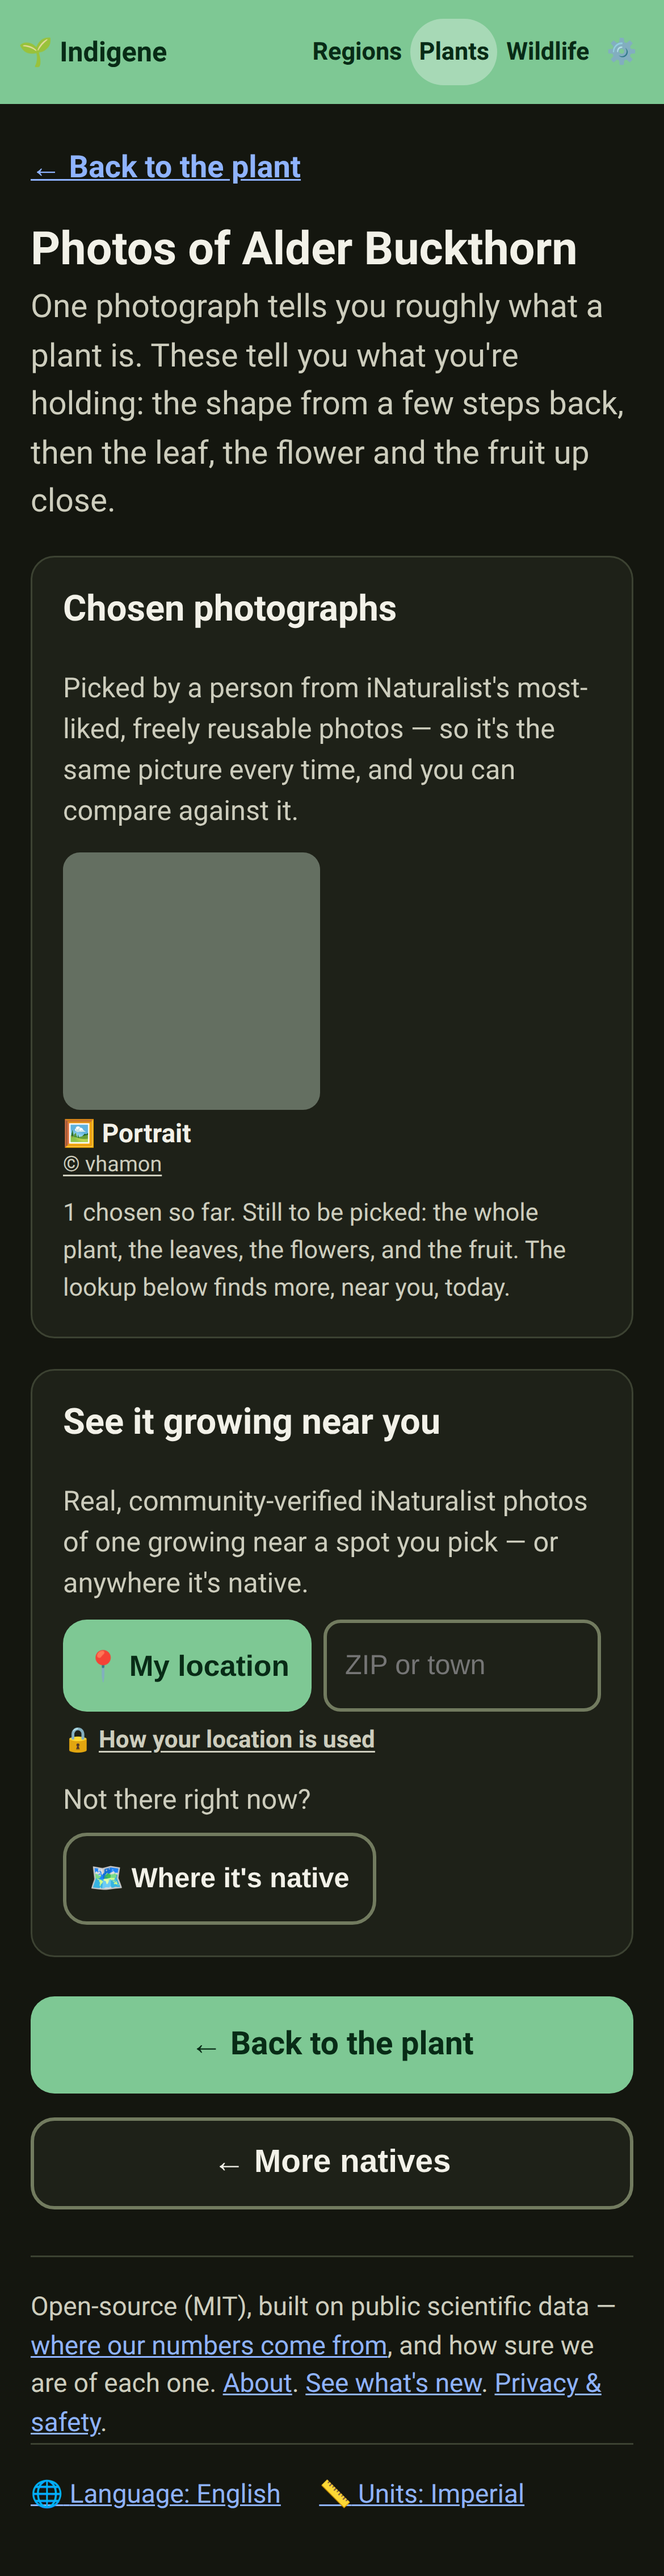
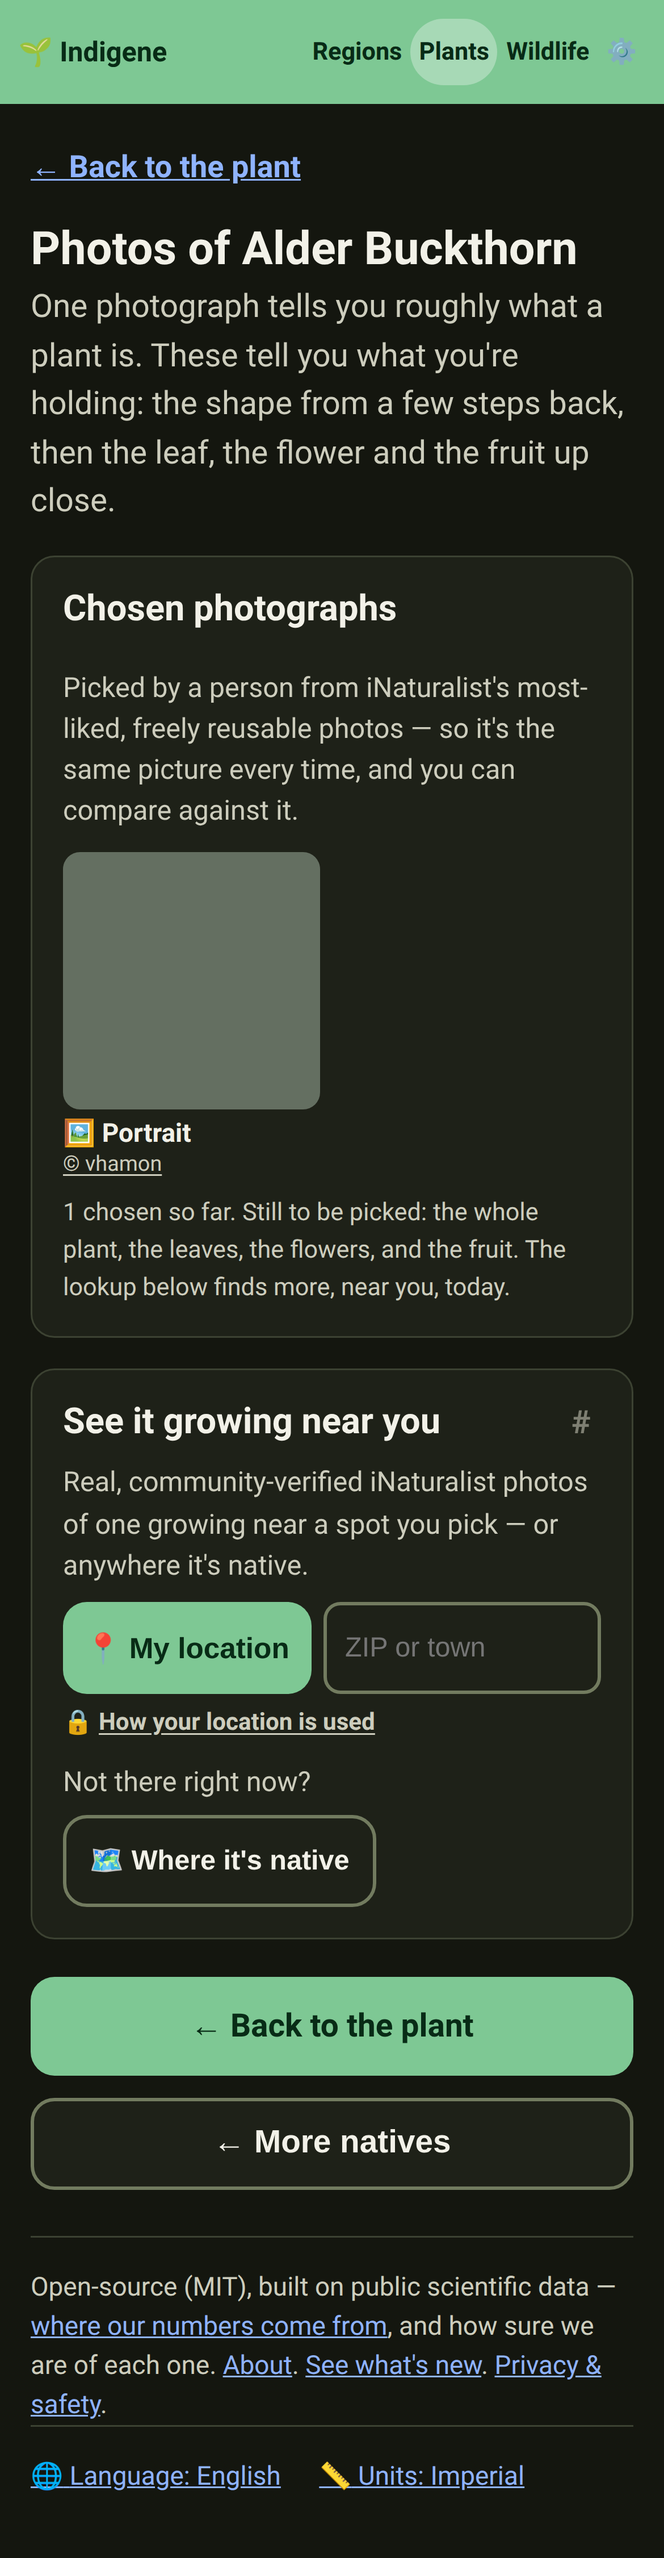
Re-measure the bundle, and reshoot against the rebased base
Rebasing onto the propagation-pages work moved two things this branch
quotes. The bundle is 340 KB gzipped where the docs said 337, so every
mention is updated together — the photo page and the animal thumbnails
add about 3 KB, and the angle picks stay out of the bundle entirely.

The before/after shots were taken against the old main, where the plant
page had neither the anchor marks nor the folded ecosystem card. Both
sides retaken so the only difference the table shows is the one this
branch makes.

Claude-Session: https://claude.ai/code/session_013LsnZQsLYpWbPAc4NkwwKB

diff --git a/docs/ecoregion-plan.md b/docs/ecoregion-plan.md
@@ -145,7 +145,7 @@ Shipped L3 code sets (in the region data files):
 The live query is online-only. Ecoregion-accurate selection with no signal would
 mean bundling a **simplified TopoJSON of the L3 polygons overlapping covered
 regions** and doing point-in-polygon on-device. Even scoped and simplified that
-adds hundreds of KB, against the ~337 KB-gzipped, service-worker-based offline
+adds hundreds of KB, against the ~340 KB-gzipped, service-worker-based offline
 model, and the box fallback already gives correct-enough offline selection. So
 this is **deferred as a deliberate decision**, not pending work — revisit only on
 a concrete need. The shipped product is §1 (labels) + §2 (selection).
@@ -162,7 +162,7 @@ a concrete need. The shipped product is §1 (labels) + §2 (selection).
   split ships. Selection logic is unit-tested (online refine, offline fallback,
   cross-region bleed, the Bend/east-of-Cascades fix, the FL north/south seam).
 - **C — offline polygons:** ⛔ **deferred by decision, not a to-do.** Bundling
-  even simplified L3 polygons adds hundreds of KB, against the ~337 KB-gzipped,
+  even simplified L3 polygons adds hundreds of KB, against the ~340 KB-gzipped,
   service-worker-based offline model. The box fallback already gives correct-
   enough offline selection. Revisit only if a concrete need appears; if so, scope
   it to just the covered regions' polygons, not all 84.

diff --git a/PROJECT_BRIEF.md b/PROJECT_BRIEF.md
@@ -28,7 +28,7 @@ uncertainty; no gamification.
 
 | Question from the brief | Decision | Why |
 |---|---|---|
-| **Framework** | **None.** Vanilla TS + DOM + real web APIs, bundled by Vite. Zero runtime deps. | Per direction ("Do not use React… respect the DOM"). Keeps the bundle ~337 KB gzipped and the code legible. |
+| **Framework** | **None.** Vanilla TS + DOM + real web APIs, bundled by Vite. Zero runtime deps. | Per direction ("Do not use React… respect the DOM"). Keeps the bundle ~340 KB gzipped and the code legible. |
 | **Sky scan tech** | `getUserMedia` + `DeviceOrientationEvent` on a `<canvas>` overlay — **not** WebXR. | WebXR doesn't work in iOS Safari. |
 | **Sun math** | Local NOAA solar-position implementation (no API), integrated against the horizon mask. | Works fully offline; no dependency. |
 | **License** | **MIT.** | A civic tool on public data should maximize reuse; AGPL's network-copyleft would deter the land trusts / extension offices / other apps we want integrating. |

diff --git a/CHANGELOG.md b/CHANGELOG.md
@@ -147,10 +147,11 @@ subtitle on the What's new page.
   committed as its starting state. See `docs/hero-photos.md`.
 - **Internal:** the four close-up angles per plant live in their own JSON,
   imported dynamically, so the bundle every reader downloads doesn't grow by the
-  gallery nobody has opened. The app stays at ~320 KB gzipped.
+  gallery nobody has opened — the page itself adds about 3 KB, taking the app to
+  ~340 KB gzipped.
 - **Internal:** the translated catalog prose is fetched as its own file rather
   than built into the app, so an English reader downloads none of it. The app
-  stays at ~337 KB gzipped; French adds ~122 KB, once, and only in French. If
+  stays at ~340 KB gzipped; French adds ~122 KB, once, and only in French. If
   that file can't be fetched the pages fall back to English exactly as an
   untranslated row always did.
 - **Internal:** `locales/prose.fr.ts` is now `locales/prose.fr/`, one file per

diff --git a/README.md b/README.md
@@ -19,7 +19,7 @@ See **[`PROJECT_BRIEF.md`](PROJECT_BRIEF.md)** for the vision and decisions, and
 
 | Path | What it is |
 |---|---|
-| [`app/`](app/) | The PWA — vanilla TypeScript on the DOM, no framework, zero runtime deps, ~337 KB gzipped. This is the product. Offline-first, installable. |
+| [`app/`](app/) | The PWA — vanilla TypeScript on the DOM, no framework, zero runtime deps, ~340 KB gzipped. This is the product. Offline-first, installable. |
 | [`server/`](server/) | A thin **Hanami 2** JSON API. Its job: fetch site data (soil/elevation/climate) server-side to dodge browser CORS and keep future API keys off the client. The PWA works without it. |
 
 ## Quick start

diff --git a/app/README.md b/app/README.md
@@ -5,7 +5,7 @@ native plants that will actually thrive there — ranked by what they do for the
 local ecosystem, with honest mature-size-over-time drawings.
 
 **No framework.** Built on the DOM and real web APIs, TypeScript compiled by
-Vite. Zero runtime dependencies. ~337 KB gzipped — plus a ~122 KB chunk of
+Vite. Zero runtime dependencies. ~340 KB gzipped — plus a ~122 KB chunk of
 translated catalog prose that only a reader in French ever downloads (see
 `src/lib/prose.ts`).
 
